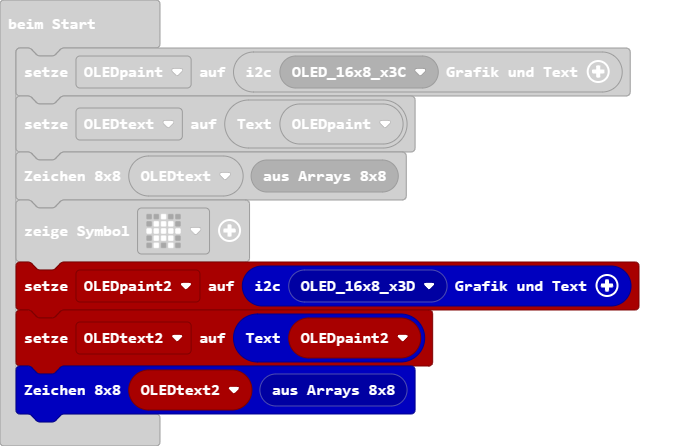
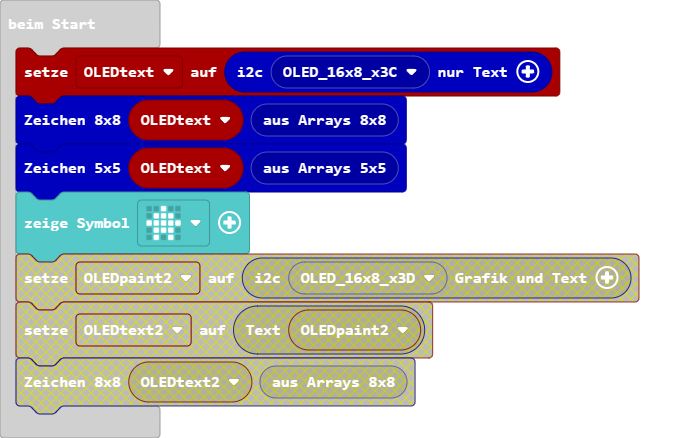
Aktualisiere pxt.json, main.blocks, main.ts, oledarrays.ts

diff --git a/oledarrays.ts b/oledarrays.ts
@@ -5,15 +5,17 @@ namespace oled {
 
     //% blockId=oled_new_oledarrays_5x5 block="aus Arrays 5x5" blockHidden=true
     export function new_oledarrays_5x5(): oledarrays_5x5 {
-        if (nOLEDArrays_5x5 == null)
+        if (nOLEDArrays_5x5 == null) {
+            basic.showString("5")
             nOLEDArrays_5x5 = new oledarrays_5x5()
+        }
         return nOLEDArrays_5x5
     }
 
     //% blockId=oled_new_oledarrays_8x8 block="aus Arrays 8x8" blockHidden=true
     export function new_oledarrays_8x8(): oledarrays_8x8 {
         if (nOLEDArrays_8x8 == null) {
-            basic.showString("n")
+            basic.showString("8")
             nOLEDArrays_8x8 = new oledarrays_8x8()
         }
         if (nOLEDArrays_8x8 == undefined) {
@@ -24,10 +26,42 @@ namespace oled {
     }
 
 
+
+    // ========== class oledarrays_5x5 ==========
+
     export class oledarrays_5x5 {
+        private readonly x00: number
+        private readonly x20: number[]
+        private readonly x40: number[]
+        private readonly x60: number[]
+
+        constructor() {
+            this.x00 = 0x0022d422 // 00-31 0x00-0x1F
+            this.x20 = [ // 32-63 x20-x3F
+                0x00000000, 0x000002e0, 0x00018060, 0x00afabea, 0x00aed6ea, 0x01991133, 0x010556aa, 0x00000060,
+                0x000045c0, 0x00003a20, 0x00051140, 0x00023880, 0x00002200, 0x00021080, 0x00000100, 0x00111110,
+                0x0007462e, 0x00087e40, 0x000956b9, 0x0005d629, 0x008fa54c, 0x009ad6b7, 0x008ada88, 0x00119531,
+                0x00aad6aa, 0x0022b6a2, 0x00000140, 0x00002a00, 0x0008a880, 0x00052940, 0x00022a20, 0x0022d422
+            ]
+            this.x40 = [ // 64-95 x40-x5F
+                0x00e4d62e, 0x000f14be, 0x000556bf, 0x0008c62e, 0x0007463f, 0x0008d6bf, 0x000094bf, 0x00cac62e,
+                0x000f909f, 0x000047f1, 0x0017c629, 0x0008a89f, 0x0008421f, 0x01f1105f, 0x01f4105f, 0x0007462e,
+                0x000114bf, 0x000b6526, 0x010514bf, 0x0004d6b2, 0x0010fc21, 0x0007c20f, 0x00744107, 0x01f4111f,
+                0x000d909b, 0x00117041, 0x0008ceb9, 0x0008c7e0, 0x01041041, 0x000fc620, 0x00010440, 0x01084210
+            ]
+            this.x60 = [ // 96-127 x60-x7F
+                0x00000820, 0x010f4a4c, 0x0004529f, 0x00094a4c, 0x000fd288, 0x000956ae, 0x000097c4, 0x0007d6a2,
+                0x000c109f, 0x000003a0, 0x0006c200, 0x0008289f, 0x000841e0, 0x01e1105e, 0x000e085e, 0x00064a4c,
+                0x0002295e, 0x000f2944, 0x0001085c, 0x00012a90, 0x010a51e0, 0x010f420e, 0x00644106, 0x01e8221e,
+                0x00093192, 0x00222292, 0x00095b52, 0x0008fc80, 0x000003e0, 0x000013f1, 0x00841080, 0x0022d422
+            ]
+        }
 
     }
 
+
+
+    // ========== class oledarrays_8x8 ==========
 
     export class oledarrays_8x8 {
         private readonly x20: string[]

diff --git a/main.ts b/main.ts
@@ -1,31 +1,13 @@
 input.onButtonEvent(Button.A, input.buttonEventClick(), function () {
-    OLEDtext.zeichenDrehen(oled.eZeichenDrehen.links)
-    OLEDtext.writeText16x8(0, 0, 15, oled.oled_text("QWER"))
+	
 })
 input.onButtonEvent(Button.AB, input.buttonEventClick(), function () {
-    OLEDpaint.drawsegment(oled.eSegment.A, 32)
-    OLEDpaint.drawsegment(oled.eSegment.B, 0)
-    OLEDpaint.sendBuffer()
+	
 })
 input.onButtonEvent(Button.B, input.buttonEventClick(), function () {
-    OLEDpaint.writeImageOLED(oled.matrix8x8(`
-        # . . . . . . #
-        . . . . . . . .
-        . . # # # # . .
-        . . # . . # . .
-        . . # . . # . .
-        . . # # # # . .
-        . . . . . . . .
-        # . . . . . . #
-        `), 119, 55)
-    OLEDpaint.sendBuffer()
+	
 })
-let OLEDtext: oled.oledclass = null
-let OLEDpaint: oled.oledpaint = null
-OLEDpaint = oled.new_oledpaint(oled.oled_eADDR_OLED(oled.eADDR_OLED.OLED_16x8_x3C))
-OLEDtext = OLEDpaint.return_oledclass()
+let OLEDtext = oled.new_oledclass(oled.oled_eADDR_OLED(oled.eADDR_OLED.OLED_16x8_x3C))
 OLEDtext.set_oledarrays_8x8(oled.new_oledarrays_8x8())
+OLEDtext.set_oledarrays_5x5(oled.new_oledarrays_5x5())
 basic.showIcon(IconNames.House)
-let OLEDpaint2 = oled.new_oledpaint(oled.oled_eADDR_OLED(oled.eADDR_OLED.OLED_16x8_x3D))
-let OLEDtext2 = OLEDpaint2.return_oledclass()
-OLEDtext2.set_oledarrays_8x8(oled.new_oledarrays_8x8())
